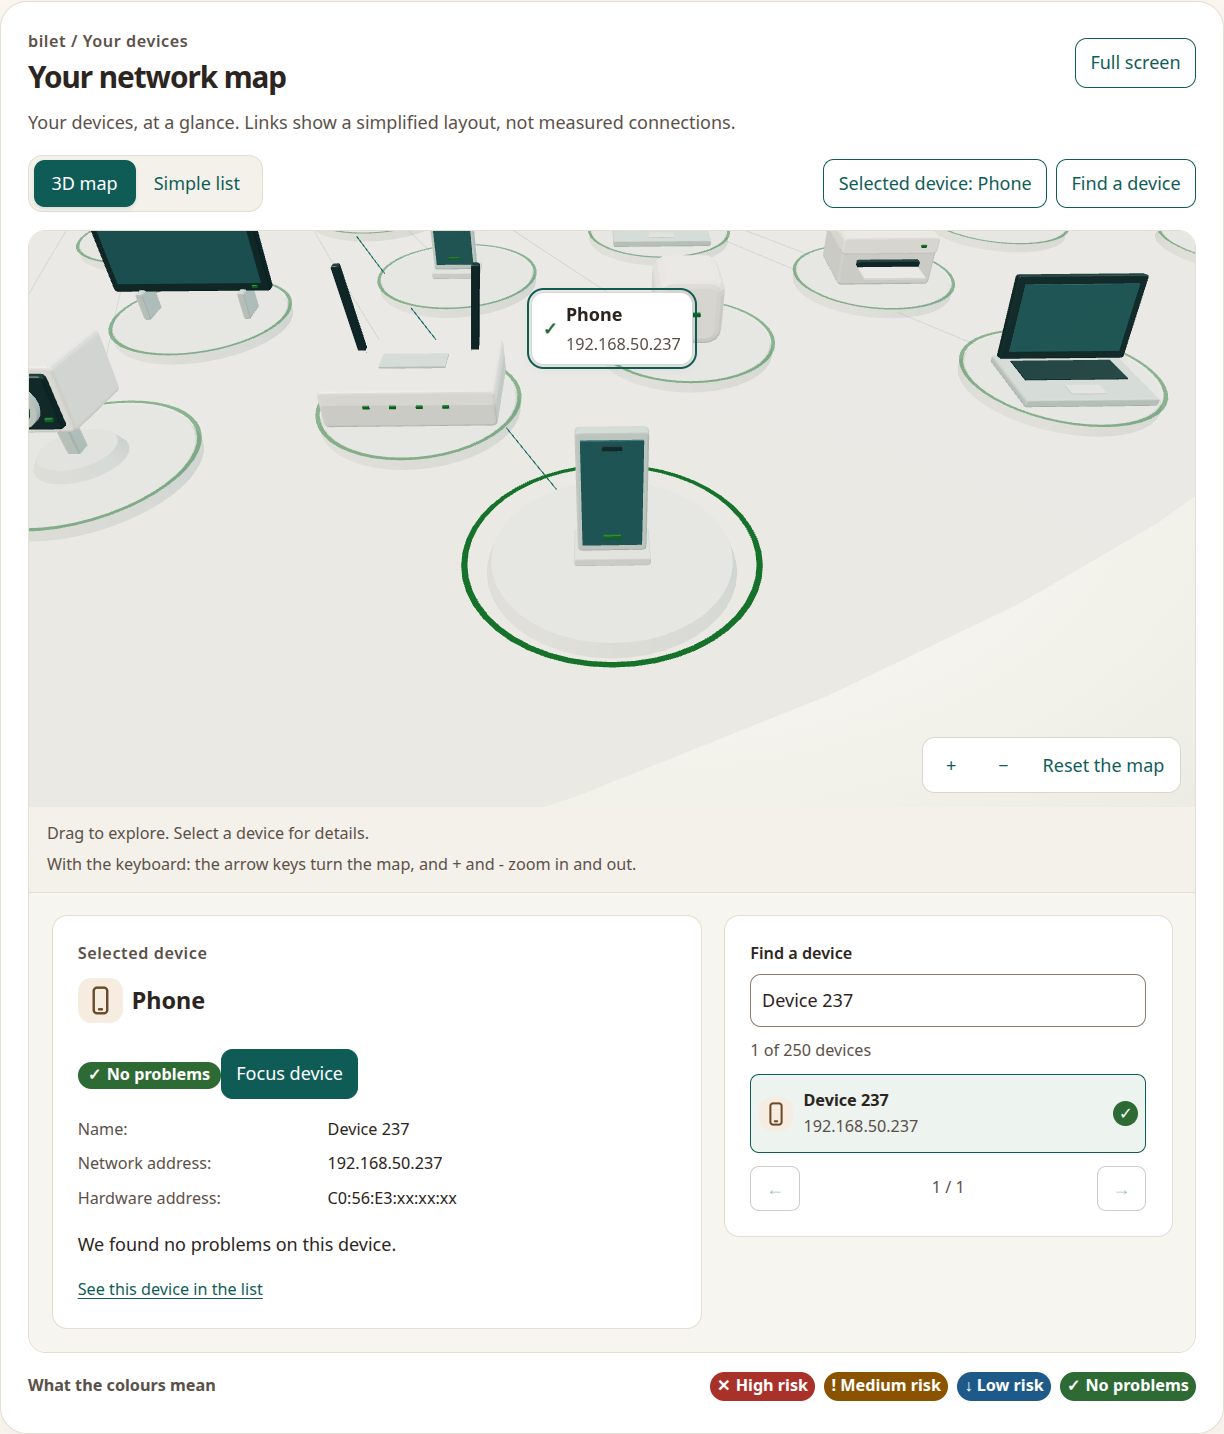
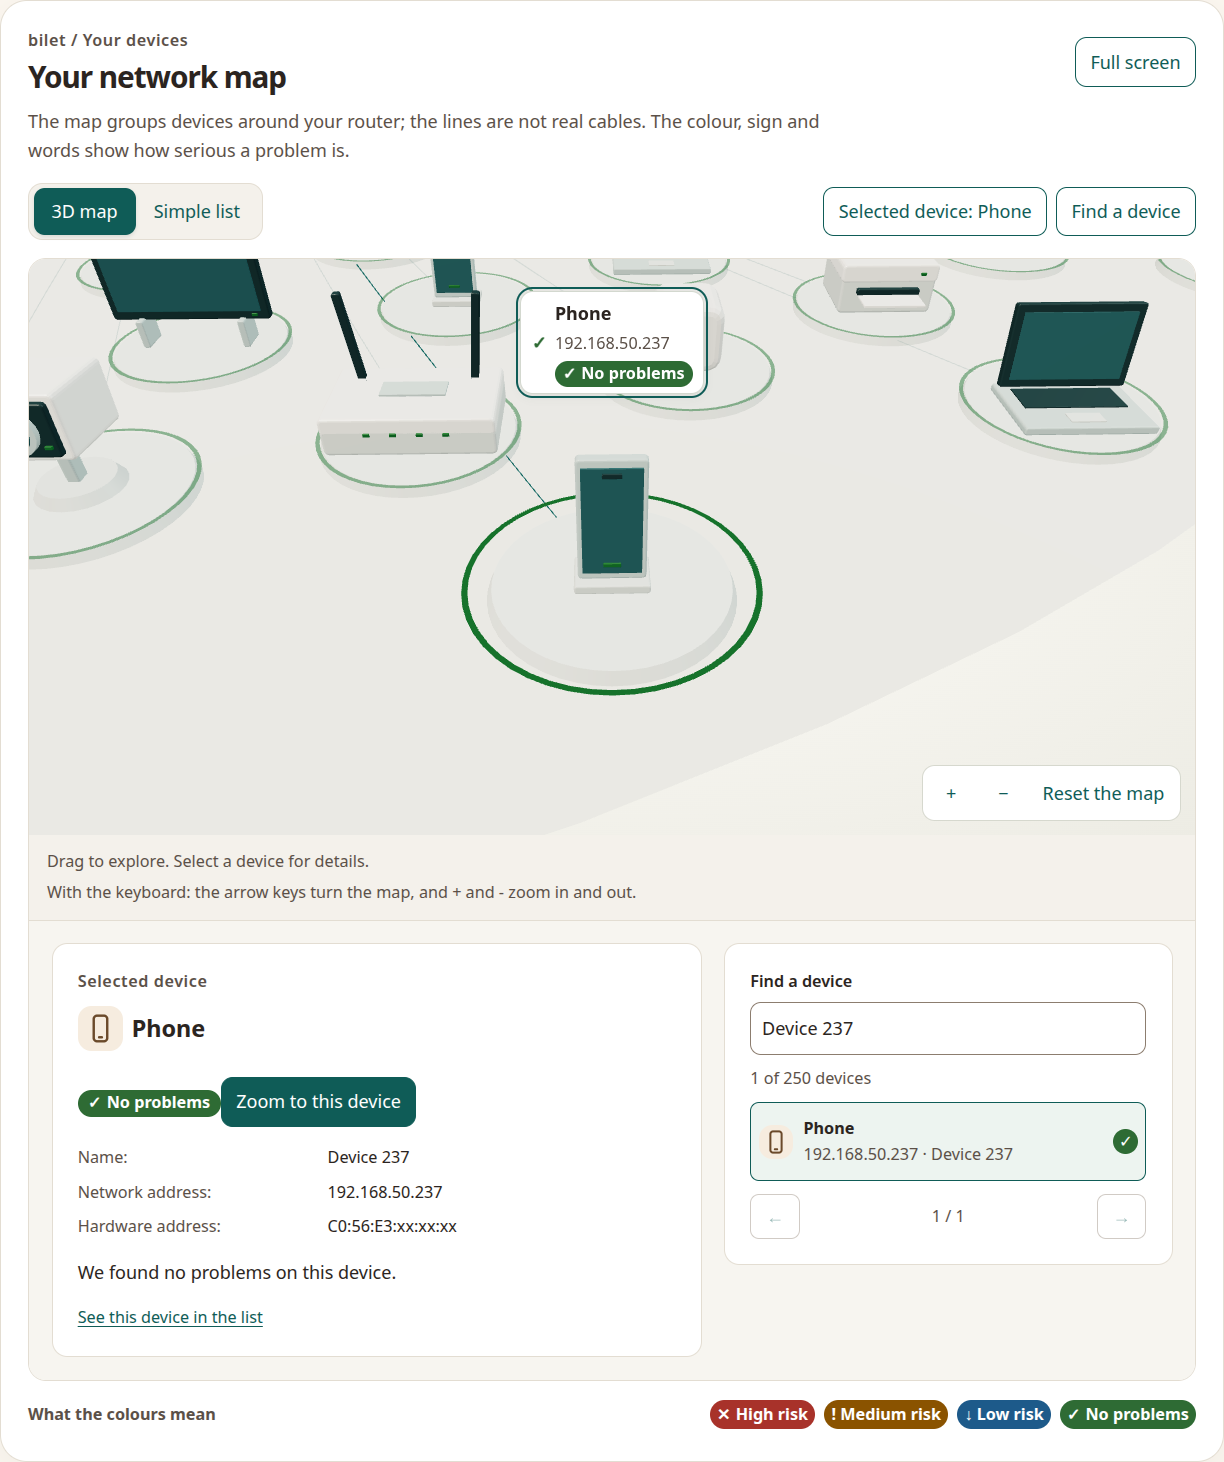
Address peer review: restore risk cues, simplify copy and recover WebGL rendering

diff --git a/src/tool/web/static/netmap.js b/src/tool/web/static/netmap.js
@@ -51,7 +51,7 @@ function start(data) {
   const T = data.text;
   const layout = layoutNodes(data.nodes.length);
   const large = data.nodes.length > 32;
-  let renderer;
+  let renderer, contextLost = false;
   try { renderer = new THREE.WebGLRenderer({ antialias: true, alpha: true }); }
   catch { return; }
   renderer.setPixelRatio(Math.min(window.devicePixelRatio || 1, large ? 1 : 1.75));
@@ -221,7 +221,7 @@ function start(data) {
         "data-device": node.id, "aria-pressed": String(entry === selected),
         "aria-label": `${node.type_label}, ${node.ip}. ${node.level.label}.` }, [
         iconFor(node.type), el("span", { className: "nm-row-name" }, [
-          el("strong", { text: node.name || node.type_label }), el("span", { text: node.ip }),
+          el("strong", { text: node.type_label }), el("span", { text: node.name ? `${node.ip} · ${node.name}` : node.ip }),
         ]), el("span", { className: `nm-row-status lvl-${node.level.key}`, text: node.level.icon,
           "aria-hidden": "true" }),
       ]);
@@ -243,7 +243,7 @@ function start(data) {
   next.addEventListener("click", () => { page++; renderDirectory(); });
 
   for (const entry of entries) {
-    // Dense maps show only the selection and gateway labels; the directory retains all.
+    // Dense maps keep the worst device, selection and gateway eligible for labels.
     const node = entry.node;
     const label = el("button", { type: "button", className: "nm-label", "aria-pressed": "false",
       "aria-label": node ? `${node.type_label}, ${node.ip}. ${node.level.label}.` : T.map_hub_virtual }, [
@@ -251,9 +251,12 @@ function start(data) {
       el("span", { className: "nm-text" }, [
         el("span", { className: "nm-type", text: node?.type_label || T.map_hub_virtual }),
         el("span", { className: "nm-address", text: node?.ip || "" }),
+        node ? chip(node.level) : null,
+        node?.worst ? el("span", { className: "nm-worst", text: T.map_most_dangerous }) : null,
       ]),
     ]);
     label.style.setProperty("--node-accent", `#${new THREE.Color(node ? COLOURS[node.level.key] : ACCENT).getHexString()}`);
+    label.addEventListener("focus", () => { if (selected !== entry) select(entry); });
     label.addEventListener("click", () => {
       select(entry, true); detail.scrollIntoView({ block: "nearest", behavior: "instant" });
       detail.focus({ preventScroll: true });
@@ -378,21 +381,24 @@ function start(data) {
   const point = new THREE.Vector3();
   function placeLabels() {
     const w = stage.clientWidth, h = stage.clientHeight, occupied = [];
-    const ordered = [...entries].sort((a, b) => (b === selected) - (a === selected) || Number(b.isHub) - Number(a.isHub));
+    const ordered = [...entries].sort((a, b) => Number(!!b.node?.worst) - Number(!!a.node?.worst) || (b === selected) - (a === selected) || Number(b.isHub) - Number(a.isHub));
     for (const entry of ordered) {
       const label = entry.label;
-      if (entries.length > 12 && entry !== selected && !entry.isHub) { label.hidden = true; continue; }
+      if (entries.length > 12 && entry !== selected && !entry.isHub && !entry.node?.worst) { label.hidden = true; continue; }
       point.set(entry.pos.x, entry.height + 0.65, entry.pos.z).project(camera);
       const x = (point.x / 2 + 0.5) * w, y = (-point.y / 2 + 0.5) * h;
       label.hidden = false;
       const width = label.offsetWidth, height = label.offsetHeight;
       const left = Math.min(Math.max(x - width / 2, 8), Math.max(8, w - width - 8));
-      const top = y - height;
-      const box = { left, right: left + width, top, bottom: y };
-      const overlaps = occupied.some(r => box.left < r.right + 4 && box.right > r.left - 4 && box.top < r.bottom + 4 && box.bottom > r.top - 4);
-      const outside = point.z > 1 || point.z < -1 || y < height + 8 || y > h - 70 || x < 0 || x > w;
-      label.hidden = outside || overlaps;
-      if (!label.hidden) { label.style.transform = `translate(${Math.round(left)}px, ${Math.round(top)}px)`; occupied.push(box); }
+      // Try a second label row before dropping a colliding label. This keeps
+      // the gateway readable behind the larger most-dangerous-device badge.
+      const candidates = [y - height, y - height - 80, y - height + 80]
+        .map(top => ({ left, right: left + width, top, bottom: top + height }));
+      const box = candidates.find(candidate => candidate.top >= 8 && candidate.bottom <= h - 70 &&
+        !occupied.some(r => candidate.left < r.right + 4 && candidate.right > r.left - 4 && candidate.top < r.bottom + 4 && candidate.bottom > r.top - 4));
+      const outside = point.z > 1 || point.z < -1 || x < 0 || x > w;
+      label.hidden = outside || !box;
+      if (!label.hidden) { label.style.transform = `translate(${Math.round(left)}px, ${Math.round(box.top)}px)`; occupied.push(box); }
     }
   }
   function frame() {
@@ -422,8 +428,15 @@ function start(data) {
   reduceMotion.addEventListener("change", motionChange);
   const visibilityChange = () => { if (!document.hidden) requestFrame(); };
   document.addEventListener("visibilitychange", visibilityChange);
-  canvas.addEventListener("webglcontextlost", e => { e.preventDefault(); show("list"); });
+  const threeButton = switcher.querySelector('[data-view="3d"]');
+  canvas.addEventListener("webglcontextlost", e => {
+    e.preventDefault(); contextLost = true; threeButton.disabled = true; show("list");
+  });
+  canvas.addEventListener("webglcontextrestored", () => {
+    contextLost = false; threeButton.disabled = false; requestFrame();
+  });
   function show(mode) {
+    if (mode === "3d" && contextLost) return;
     wrap.hidden = mode !== "3d"; list.hidden = mode === "3d";
     fullscreen.hidden = mode !== "3d"; panelLinks.hidden = mode !== "3d";
     for (const b of switcher.querySelectorAll("[data-view]")) b.setAttribute("aria-pressed", String(b.dataset.view === mode));

diff --git a/src/tool/web/static/netmap.css b/src/tool/web/static/netmap.css
@@ -1,7 +1,7 @@
 /* Map-only refinement of agent-B's warm palette. All device data stays text. */
 body:has(#network-map) { max-width: 68rem; }
-body:has(#network-map) > main > .score,
-body:has(#network-map) > main > .first { max-width: 48rem; margin-inline: auto; }
+body:has(#network-map) > main > :not(#network-map),
+body:has(#network-map) > header, body:has(#network-map) > footer { max-width: 46rem; margin-inline: auto; }
 [hidden] { display: none !important; }
 .netmap { padding: 1.5rem; border: 1px solid #e3ddd2; border-radius: 1.5rem;
   background: #ffffff; box-shadow: 0 12px 40px rgba(43, 55, 48, .05); }
@@ -118,3 +118,7 @@ body:has(#network-map) > main > .first { max-width: 48rem; margin-inline: auto; 
 }
 
 body.netmap-expanded { overflow: hidden; }
+
+.nm-label .lvl { font-size: .9rem; }
+.nm-worst { display: block; color: #a8322a; font-size: .9rem; font-weight: 700; }
+.nm-row-name > span { overflow-wrap: anywhere; }

diff --git a/src/tool/web/static/netmap-layout.js b/src/tool/web/static/netmap-layout.js
@@ -8,7 +8,10 @@ export function layoutNodes(count) {
     const capacity = Math.max(6, Math.floor(2 * Math.PI * radius / 3.3));
     const size = Math.min(remaining, capacity);
     for (let i = 0; i < size; i++) {
-      const angle = Math.PI / 2 + (i / size) * Math.PI * 2 + ring * 0.28;
+      // Small home networks fan out in front of the gateway, not behind it.
+      const front = [0, -0.75, 0.75, -1.5, 1.5];
+      const angle = count <= 5 ? Math.PI / 2 + front[i]
+        : Math.PI / 2 + (i / size) * Math.PI * 2 + ring * 0.28;
       points.push({ x: Math.cos(angle) * radius, z: Math.sin(angle) * radius });
     }
     remaining -= size; ring++;

diff --git a/tests/test_web_a11y.py b/tests/test_web_a11y.py
@@ -18,6 +18,7 @@ from tool.history import History
 from tool.web.app import create_app
 
 STYLE = Path(__file__).parents[1] / "src" / "tool" / "web" / "templates" / "_style.html"
+MAP_STYLE = STYLE.parents[1] / "static" / "netmap.css"
 VALIDATION = Path(__file__).parent / "fixtures" / "validation"
 SALT = b"test-salt"
 ROOT_PX = 18
@@ -26,8 +27,8 @@ AA_TEXT = 4.5
 WHITE = "#ffffff"
 
 
-def css() -> str:
-    text = STYLE.read_text(encoding="utf-8")
+def css(path: Path = STYLE) -> str:
+    text = path.read_text(encoding="utf-8")
     return re.sub(r"/\*.*?\*/", "", text, flags=re.S)
 
 
@@ -50,9 +51,14 @@ def full_hex(colour: str) -> str:
     return colour if len(colour) == 7 else "#" + "".join(c * 2 for c in colour[1:])
 
 
-def colours(prop: str) -> set[str]:
-    pattern = rf"(?<![-\w]){prop}\s*:\s*(#[0-9a-fA-F]{{3,6}})\b"
-    return {full_hex(m) for m in re.findall(pattern, css())}
+def colours(prop: str, styles: str) -> set[str]:
+    # Read the whole declaration so gradient stops count as backgrounds too.
+    declarations = re.findall(rf"(?<![-\w]){prop}\s*:\s*([^;{{}}]+)", styles)
+    return {
+        full_hex(colour)
+        for value in declarations
+        for colour in re.findall(r"#(?:[0-9a-fA-F]{6}|[0-9a-fA-F]{3})\b", value)
+    }
 
 
 def test_contrast_ratio_matches_known_values():
@@ -60,14 +66,22 @@ def test_contrast_ratio_matches_known_values():
     assert contrast("#777777", "#ffffff") == pytest.approx(4.48, abs=0.01)
 
 
-def test_every_text_colour_passes_aa_on_every_background():
+@pytest.mark.parametrize("paths", [(STYLE,), (STYLE, MAP_STYLE)], ids=["shared", "network-map"])
+def test_every_text_colour_passes_aa_on_every_background(paths):
     """A superset of the real pairs: any text colour may end up on any background.
 
     Light backgrounds carry dark text, and dark backgrounds (tags, chips, score icons)
     carry white text. Checking every combination means a new rule can't pair them badly.
     """
-    text = colours("color") | colours("fill")
-    backgrounds = colours("background") | colours("background-color") | {WHITE}
+    # Map rules inherit shared text colours and badge backgrounds, so audit them together.
+    styles = "\n".join(css(path) for path in paths)
+    text = colours("color", styles) | colours("fill", styles)
+    backgrounds = (
+        colours("background", styles)
+        | colours("background-color", styles)
+        | colours("background-image", styles)
+        | {WHITE}
+    )
     light = {b for b in backgrounds if luminance(b) > 0.5}
     dark = backgrounds - light
     dark_text = {t for t in text if t != WHITE}
@@ -82,14 +96,18 @@ def test_every_text_colour_passes_aa_on_every_background():
     assert not failures, failures
 
 
-def test_no_text_smaller_than_16px():
-    sizes = re.findall(r"font-size\s*:\s*([\d.]+)\s*([a-z%]+)", css())
-    assert sizes, "the font-size parser found nothing"
-    for value, unit in sizes:
+@pytest.mark.parametrize("path", [STYLE, MAP_STYLE], ids=["shared", "network-map"])
+def test_no_text_smaller_than_16px(path):
+    sizes = re.findall(r"(?<![-\w])font-size\s*:\s*([^;{}]+)", css(path))
+    assert sizes, f"{path.name}: the font-size parser found nothing"
+    for size in sizes:
         # em and % compound with the parent, so only rem and px are allowed here.
-        assert unit in ("rem", "px"), f"font-size in {unit}: use rem or px"
+        # Match the full value: unsupported expressions must not silently evade the audit.
+        match = re.fullmatch(r"([\d.]+)\s*(rem|px)(?:\s*!important)?\s*", size.strip())
+        assert match, f"{path.name}: font-size {size}: use rem or px"
+        value, unit = match.groups()
         px = float(value) * (ROOT_PX if unit == "rem" else 1)
-        assert px >= MIN_PX, f"font-size {value}{unit} is {px:.1f}px"
+        assert px >= MIN_PX, f"{path.name}: font-size {value}{unit} is {px:.1f}px"
 
 
 def test_root_font_size_is_the_one_the_test_assumes():

diff --git a/src/tool/content/ui.py b/src/tool/content/ui.py
@@ -60,12 +60,12 @@ UI = {
     "map_heading": {"ro": "Harta rețelei tale", "en": "Your network map"},
     "map_intro": {
         "ro": (
-            "Dispozitivele tale, dintr-o privire. "
-            "Legăturile arată o schemă simplificată, nu conexiuni măsurate."
+            "Harta grupează dispozitivele în jurul routerului; liniile nu sunt cabluri reale. "
+            "Culoarea, semnul și cuvintele arată cât de gravă este o problemă."
         ),
         "en": (
-            "Your devices, at a glance. "
-            "Links show a simplified layout, not measured connections."
+            "The map groups devices around your router; the lines are not real cables. "
+            "The colour, sign and words show how serious a problem is."
         ),
     },
     "map_how": {
@@ -74,9 +74,9 @@ UI = {
     },
     "map_fullscreen": {"ro": "Ecran complet", "en": "Full screen"},
     "map_exit_fullscreen": {"ro": "Închide ecranul complet", "en": "Exit full screen"},
-    "map_focus": {"ro": "Apropie dispozitivul", "en": "Focus device"},
+    "map_focus": {"ro": "Arată dispozitivul de aproape", "en": "Zoom to this device"},
     "map_selected": {"ro": "Dispozitiv selectat", "en": "Selected device"},
-    "map_inspector": {"ro": "Detalii și dispozitive", "en": "Device details and browser"},
+    "map_inspector": {"ro": "Detalii și dispozitive", "en": "Device details and search"},
     "map_search": {"ro": "Găsește un dispozitiv", "en": "Find a device"},
     "map_search_hint": {"ro": "Nume, adresă sau tip", "en": "Name, address or type"},
     "map_count": {"ro": "{shown} din {total} dispozitive", "en": "{shown} of {total} devices"},

diff --git a/docs/screenshots/173-map/README.md b/docs/screenshots/173-map/README.md
@@ -12,7 +12,7 @@ No real network was scanned. Device addresses/names are synthetic.
 - [Selected device in a 250-device fixture](dense-selected.png): search for Device 237,
   select it, and focus its model. Ten directory rows per page, 25 pages before searching.
 
-Toolbar shortcuts focus the detail card or search; Focus device returns to the map.
+Toolbar shortcuts focus the detail card or search; Zoom to this device returns to the map.
 Both cards grow with their content, and all ten directory rows are visible per page.
 
 Browser assertions passed: native fullscreen enter/exit; denied-fullscreen expansion
@@ -32,7 +32,7 @@ Automated checks:
 .venv/bin/ruff check src tests scripts
 .venv/bin/ruff format --check src tests scripts
 .venv/bin/python scripts/validate.py
-node --test tests/netmap-layout.test.mjs
+make test-map
 uv build --wheel
 ```
 
@@ -42,3 +42,16 @@ vendored Three.js requested successfully through FastAPI's TestClient.
 The full local suite has one unrelated lab failure: the preset test expects `nmcli`
 to be absent but adds `/usr/bin` to its fake-tool PATH. NetworkManager is installed
 on this laptop. Reported to the lab owners on sync issue #1; application tests pass.
+
+Peer-review follow-up: risk words and the most-dangerous badge are restored on map
+labels. The worst label remains eligible in dense mode independently of selection
+(with normal clipping outside the camera view). Small networks fan out in front
+of the gateway, directory rows lead with device type, and keyboard focus selects
+a map label. Home-page prose retains its narrower reading width.
+
+804 application tests and 11 Node checks passed. Accessibility tests now include
+the map CSS and its gradient colours. A separate code review found a WebGL
+restoration defect: 3D is now disabled during context loss and re-enabled with
+a render request on restoration. Both the reviewer and a browser loss/restore
+probe verified the fix. Dense worst-label visibility and keyboard-focus selection
+also passed browser checks.
